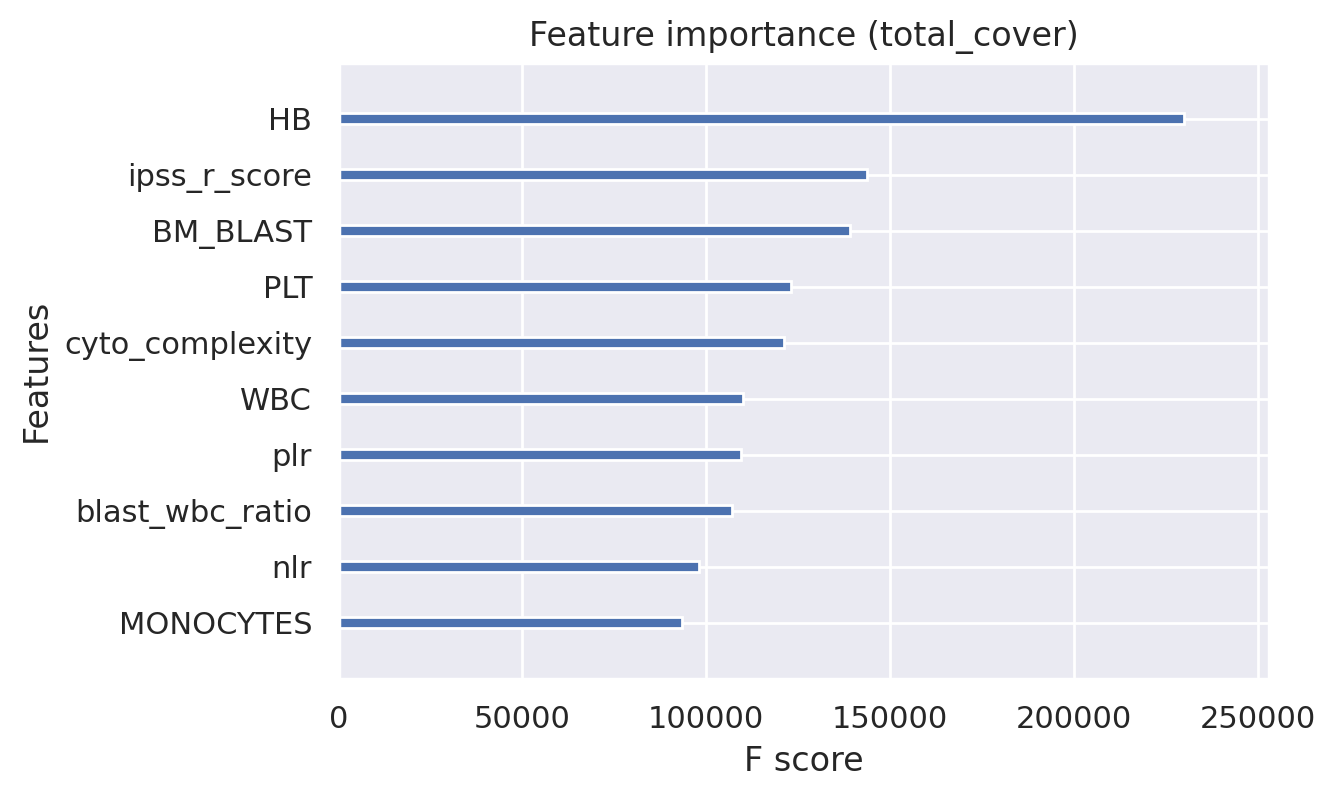
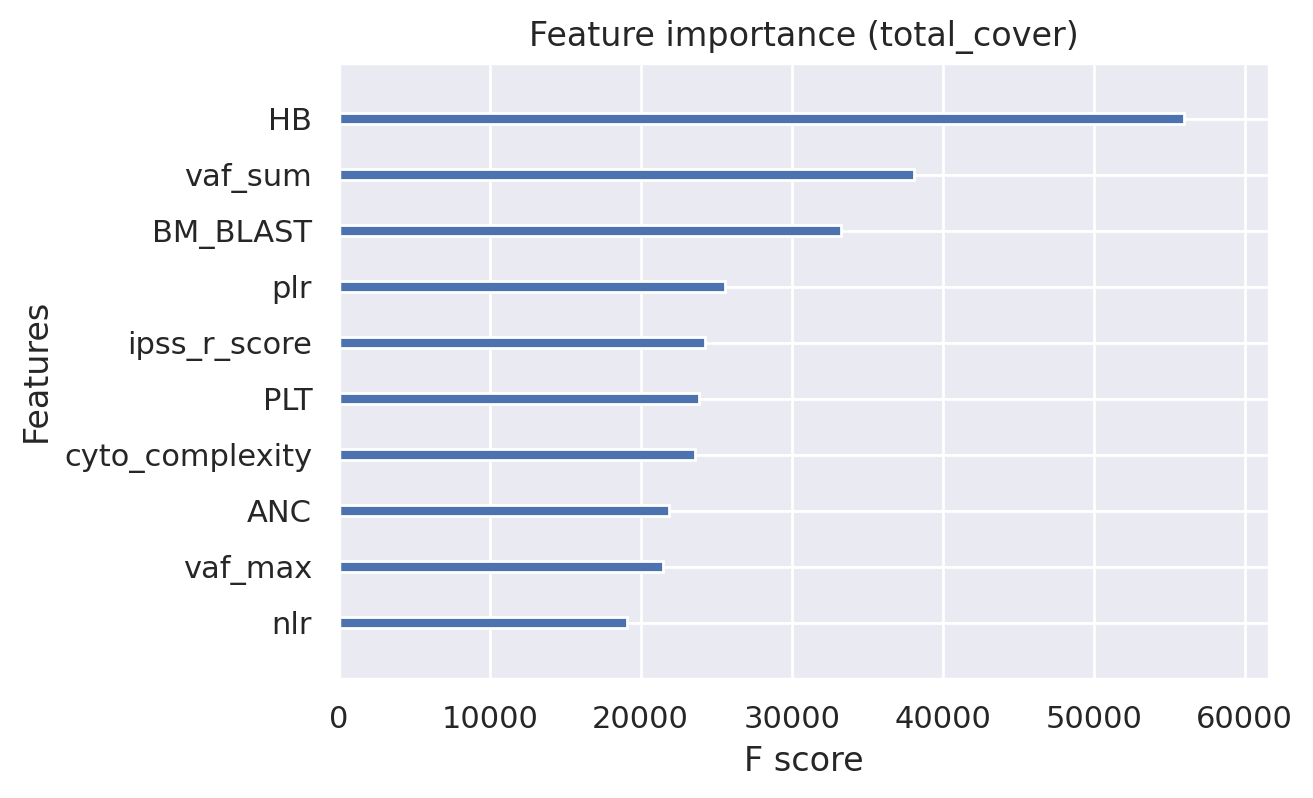
finished .tex

diff --git a/report/report.tex b/report/report.tex
@@ -2,6 +2,7 @@
 \usepackage{graphicx}
 \usepackage{amsmath, amssymb}
 \usepackage{hyperref}
+\usepackage[a4paper, top=20mm, bottom=20mm, left=20mm, right=20mm]{geometry}
 
 \title{Overall Survival Prediction for Patients Diagnosed with Myeloid Leukemia}
 \author{Gaëtan Ecrepont}
@@ -12,29 +13,60 @@
 \maketitle
 
 \begin{abstract}
-Predicting overall survival for patients diagnosed with myeloid leukemia is essential for personalized treatment. This report presents our approach using survival analysis techniques, in particular XGBoost, to model right-censored data effectively. We first introduce the problem and its challenges. When then describe our methodology and present our results. Finally, we discuss our model's limitations and ideas for improvement.
+Predicting overall survival for patients diagnosed with myeloid leukemia is crucial for personalized treatment. This report presents our machine learning approach to predict risk scores for adult patients with myeloid leukemia\footnote{We will mostly focus on Acute Myeloid Leukemia (AML) because it has the richest literature available.}. Our model is trained on a dataset containing clinical and genetic information, and we evaluate its performance using the IPCW-C-index. The results indicate that our model's predicted risk score is informative for flagging high-risk and low-risk patients, but it struggles with intermediate-risk predictions and recall for high-risk patients.
 \end{abstract}
 
-\section{Introduction}
-Survival prediction is crucial in clinical settings to guide treatment decisions. However, the presence of right-censored data and a limited number of samples pose challenges. This study explores various survival analysis models and ultimately selects XGBoost for its performance and explainability.
+\tableofcontents
+\newpage
 
-\section{Problem Statement}
-The dataset consists of clinical and genetic information, with the target variable being overall survival (OS). Key challenges include:
+This paper is a report of our work on the 2025 \textit{Challenge Data} competition "Overall Survival Prediction for Patients Diagnosed with Myeloid Leukemia" proposed by the \textit{QRT} and held in partnership with the \textit{Institut Gustave Roussy}. The goal of this competition was to predict the risk score of adult patients diagnosed with myeloid leukemia using clinical and genetic data.
+
+We first introduce the dataset and the models considered. We then describe our experimental setup and present our results. Finally, we discuss our model's limitations and ideas for improvement.
+
+\section{Dataset}
+The dataset consists of clinical and genetic information, with the target variable being overall survival. The main challenges we faced were:
 \begin{itemize}
-    \item Right-censored data complicates standard regression techniques.
-    \item Feature engineering is difficult due to domain-specific predictors.
-    \item Missing data (7\% in clinical, 9\% in genetic data) requires imputation.
+    \item \textbf{Right-censored data} means we cannot use standard regression techniques. Instead, we must resort to \textit{survival analysis} models.
+    \item \textbf{Highly non-Gaussian data} (e.g., blood counts with large right skew) and complex categorical variables (e.g., cytogenetics) require careful preprocessing.
+    \item \textbf{Lack of expert knowledge} on AML means we cannot easily understand interactions between features or engineer new features. We will need to leverage the existing medical literature to create informative features.
+    \item \textbf{No clear data-generating process}, implying that we must consider the data as a \textit{black box}. Besides, we don't really know how the data was collected and therefore we have no idea of the potential biases created by the data collection process.
+    \item \textbf{Missing data} (7\% in clinical, 9\% in genetic data) requires imputation.
 \end{itemize}
 
-\section{Methodology}
-We evaluated multiple models for survival prediction:
+Note that the number of patients is moderate (around 3000) compared to the number of features (89 after feature engineering). This is a common situation in medical datasets, and it means that robustness will be a significant concern. We will need to be careful with hyperparameter tuning and model selection to avoid overfitting the data. In addition, 3000 samples is \textit{a priori} not enough to train a robust deep learning model, so we won't consider this approach.
+
+\section{Models considered}
+We evaluated multiple models for survival prediction:\footnote{Note that we won't describe the functioning of each model in detail, as it is not the focus of this report. For more information, please refer to the references at the end of this report.}
 \begin{itemize}
     \item \textbf{Penalized Cox Model}: Simple and interpretable but lacks non-linearity.
-    \item \textbf{Random Survival Forest}: Good interpretability but at risk of overfitting. Slow fit.
-    \item \textbf{Kernel Survival SVM}: Performance heavily depends on the kernel choice. We weren't able to come up with a good enough kernel for this approach to be competitive. Besides, it lacks interpretability.
-    \item \textbf{Survival XGBoost}: Gradient-Boosted Trees: high performance and fast training, but risk of overfit.
+    \item \textbf{Random Survival Forest}: Good interpretability but at risk of overfitting. Slow fit means cross-validation and hyperparameter tuning are expensive.
+    \item \textbf{Survival XGBoost}: Gradient-Boosted Trees: high performance and fast training, but high risk of overfit unless carefully cross-validated and tuned.
 \end{itemize}
-XGBoost was selected due to its superior performance and computational efficiency, though we had to tweak the hyperparameters to avoid overfitting.
+
+\begin{table}[h]
+    \centering
+    \begin{tabular}{|l|c|c|c|}
+        \hline
+        & Penalized Cox Model & Random Survival Forest & Survival XGBoost \\
+        \hline
+        Nonlinear & no & yes & yes \\
+        \hline
+        High dimensional & mid & yes & yes \\
+        \hline
+        Little overfit & yes & no & no \\
+        \hline
+        Superior performance & no & yes & yes++ \\
+        \hline
+        Fast fit & no & no & yes \\
+        \hline
+    \end{tabular}
+    \caption{Comparison of survival models}
+    \label{tab:survival_models}
+\end{table}
+
+The penalized Cox model and the Random Survival Forest were implemented using the \texttt{scikit-survival} whereas XGBoost was implemented using the \texttt{xgboost} library.
+
+After some testing, XGBoost was selected due to its superior performance and computational efficiency, though we had to carefully tweak the hyperparameters to avoid overfitting. Note that although ensembling models often leads to a "free lunch" increase in performance, we did not pursue this approach as the risk scores outputted by the different models were not directly comparable. Indeed, the risk scores from different models are relative, not absolute, and thus ensembling them is nontrivial.\footnote{We actually tried creating a metamodel using XGBoost and Random Survival Forest as base models, using a log transform and then a min-max transform to make the risk scores comparable. However, this approach did not yield significant performance improvements, so we dropped it in favor of a simpler model.}
 
 \section{Feature Engineering}
 \subsection{Clinical Features}
@@ -42,22 +74,22 @@ We first extracted information for the \texttt{CYTOGENETICS} column:
 \begin{itemize}
     \item chromosomal anomalies: chromosome loss, gain, deletion, derivative, marker, short arm, long arm, translocation, XX, XY.
     \item missing cytogenetics.
-    \item \texttt{n\_+-}: Total count of chromosome gains and losses.
+    \item \texttt{n\_+-}: total count of chromosome gains and losses.
     \item specific risk factors:  loss of chromosome 7, deletion of chromosome 5q, translocation between chromosomes 9 and 22.
-    \item \texttt{cyto\_complexity}: Measure of karyotype complexity, defined as the count of commas in the cytogenetics.
-    \item \texttt{n\_high \_risk\_markers}: Count of high-risk markers (found in the literature).
+    \item \texttt{cyto\_complexity}: measure of karyotype complexity, defined as the count of commas in the cytogenetics.
+    \item \texttt{n\_high\_risk\_markers}: count of high-risk markers (found in the literature).
 \end{itemize}
 
 We also defined the following ratios:
 \begin{itemize}
-    \item \texttt{nlr}: Neutrophil-to-lymphocyte ratio.
-    \item \texttt{plr}: Platelet-to-lymphocyte ratio.
-    \item \texttt{blast\_wbc\_ratio}: Ratio of blast cells to white blood cells.
+    \item \texttt{nlr}: neutrophil-to-lymphocyte ratio.
+    \item \texttt{plr}: platelet-to-lymphocyte ratio.
+    \item \texttt{blast\_wbc\_ratio}: ratio of blast cells to white blood cells.
 \end{itemize}
 
-Finally we added the \texttt{IPSS\_R\_Score} (Revised International Prognostic Scoring System) as a feature, it is a well-known prognostic factor in myeloid leukemia, defined as the following linear combination:
+Finally we added the \texttt{ipss\_r\_score} (Revised International Prognostic Scoring System) as a feature, it is a well-known prognostic factor in myeloid leukemia, defined as the following linear combination:
 \begin{equation}
-    \texttt{IPSS\_R\_Score} = 0.4 \cdot \texttt{BM\_BLAST} - 0.3 \cdot \texttt{HB} - 0.2 \cdot \texttt{PLT} + 0.5 \cdot \texttt{cyto\_complexity}
+    \texttt{ipss\_r\_score} = 0.4 \cdot \texttt{BM\_BLAST} - 0.3 \cdot \texttt{HB} - 0.2 \cdot \texttt{PLT} + 0.5 \cdot \texttt{cyto\_complexity}
 \end{equation}
 
 \subsection{Genetic Features}
@@ -71,33 +103,35 @@ We first grouped the genetic features by patients and created aggregates and cou
 
 \section{Experimental Setup}
 \subsection{Data Transformation}
-Although tree-based models do not care for data normalization, we still applied a transformation in the hope that it would help XGBoost find its splits. Besides, having Gaussian features was needed to test the penalized Cox model which is a linear model. We only transformed clinical features because they exhibited significant right skewness. We applied the Yeo-Johnson transformation to normalize the data. The Box-Johnson transformation was also considered, but since some variables could equal zero, it was not applicable.
+Although tree-based models do not care for data normalization \textit{in theory}, we still applied a transformation in the hope that it would help XGBoost find its splits. Besides, having Gaussian features was needed to test the penalized Cox model which is a linear model. We only transformed clinical features because they exhibited significant right skewness. We applied the Yeo-Johnson transformation to normalize the data. The Box-Johnson transformation was also considered, but since some variables could equal zero, it was not applicable.
 
 \subsection{Data Imputation}
 Missing values were imputed using two methods:
-- \textbf{Clinical Dataset}: 7\% missing values. All real positive variables (blood counts and bone marrow blast percentage) were imputed using the mode. Missing cytogenetics were imputed with the string "missing" so that the model could know when a patient had no cytogenetics data available.
-- \textbf{Genetic Dataset}: 9\% missing values. Missing values were first ignored when grouping by patients and creating aggregates and counts. Then those newly created variables were imputed using -1. This makes sense as almost all these variables are (nonnegative integer) counts or indicators, i.e. ordinal variables. For example, the number of mutations in a gene is a count variable, and the presence of a mutation is an indicator variable. The categorical -1 value indicates to the model that the patient has no data available for this variable. 
+\begin{itemize}
+    \item \textbf{Clinical Dataset}: 7\% missing values. All real positive variables (blood counts and bone marrow blast percentage) were imputed using the mode. Missing cytogenetics were imputed with the string "missing" so that the model could know when a patient had no cytogenetics data available.
+    \item \textbf{Genetic Dataset}: 9\% missing values. Missing values were first ignored when grouping by patients and creating aggregates and counts. Then those newly created variables were imputed using -1. This makes sense as almost all these variables are (nonnegative integer) counts or indicators, i.e. ordinal variables. For example, the number of mutations in a gene is a count variable, and the presence of a mutation is an indicator variable. The categorical -1 value indicates to the model that the patient has no data available for this variable.
+\end{itemize}
 
 Empirically, other imputation methods (e.g., mean instead of mode, 0 instead of -1) did not yield significant differences in performance. We chose the above two approaches as they seemed most intuitive.
 
 \subsection{Evaluation Metric}
-Performance was assessed using IPCW-C-index, which is like the classic Concordance Index for Right Censored Data (C-index) but using inverse probability weighting to account for the right-censored nature of the data. A score of 0.5 indicates random predictions, while a score of 1.0 indicates perfect predictions (and a score of 0.0 indicates perfectly wrong predictions). Although complicated to compute, The IPCW-C-index is a robust metric for survival analysis.
+Performance was assessed using IPCW-C-index, which is similar to the classic Concordance Index for Right Censored Data (C-index) but using inverse probability weighting to account for the right-censored nature of the data. A score of 0.5 indicates random predictions, while a score of 1.0 indicates perfect predictions (and a score of 0.0 indicates perfectly wrong predictions). Although complicated to compute, The IPCW-C-index is a robust metric for survival analysis.
 
 \subsection{Cross-Validation}
 We used 5-fold cross-validation to evaluate model performance. Note that to avoid data leakage, we performed the imputation the data transformation and imputation during the cross-validation process. We saw no use of Stratified K-Folds as the dataset was already balanced between dead and censored patients. Likewise, each patient had only one row so we did not need Group K-Folds.
 
 \subsection{Hyperparameter Tuning}
-XGBoost tuning is a delicate exercise. The large number of hyperparameters means that we can easily overfit the data, and yet one can obtain significant performance improvements by tuning them carefully. Since a full grid search would be too expensive and might lead to overfitting, we used a Bayesian optimization approach to find the best hyperparameters. We used the \texttt{optuna} library, which is a powerful and efficient hyperparameter optimization framework. The search space included:
+XGBoost tuning is a delicate exercise. The large number of hyperparameters means that we can easily overfit the data, and yet one can obtain significant performance improvements by tuning them carefully. Since a full grid search would be too expensive and might lead to overfitting, we used a \textbf{Bayesian optimization approach} to find the best hyperparameters. We used the \texttt{optuna} library, which is a powerful and efficient hyperparameter optimization framework. The search space included:
 \begin{itemize}
-    \item \texttt{n\_estimators} $in [100, 500]$: Number of trees to be built.
-    \item \texttt{learning\_rate} $in [0.001, 0.1]$: Step size shrinkage used in update to prevent overfitting.
-    \item \texttt{max\_depth} $in [2, 6]$: Maximum depth of a tree.
-    \item \texttt{subsample} $in [0.4, 0.8]$: Fraction of samples to be used for each tree.
-    \item \texttt{colsample\_bytree} $in [0.4, 1.0]$: Fraction of features to be used for each tree.
-    \item \texttt{colsample\_bylevel} $in [0.4, 1.0]$: Fraction of features to be used for each level.
-    \item \texttt{colsample\_bynode} $in [0.4, 1.0]$: Fraction of features to be used for each node.
-    \item \texttt{min_child\_weight} $in [1, 10]$: Minimum sum of instance weight (hessian) needed in a child.
-    \item \texttt{gamma} $in [0, 5]$: Minimum loss reduction required to make a further partition on a leaf node.
+    \item \texttt{n\_estimators} $\in [100, 500]$: Number of trees to be built.
+    \item \texttt{learning\_rate} $\in [0.001, 0.1]$: Step size shrinkage used in update to prevent overfitting.
+    \item \texttt{max\_depth} $\in [2, 6]$: Maximum depth of a tree.
+    \item \texttt{subsample} $\in [0.4, 0.8]$: Fraction of samples to be used for each tree.
+    \item \texttt{colsample\_bytree} $\in [0.4, 1.0]$: Fraction of features to be used for each tree.
+    \item \texttt{colsample\_bylevel} $\in [0.4, 1.0]$: Fraction of features to be used for each level.
+    \item \texttt{colsample\_bynode} $\in [0.4, 1.0]$: Fraction of features to be used for each node.
+    \item \texttt{min\_child\_weight} $\in [1, 10]$: Minimum sum of instance weight (hessian) needed in a child.
+    \item \texttt{gamma} $\in [0, 5]$: Minimum loss reduction required to make a further partition on a leaf node.
 \end{itemize}
 Note that except for \texttt{n\_estimators}, all the other hyperparameters were added to combat overfit. Also, to have an idea of the degree of overfit for each hyperparameter configuration, we recorded the performance of the model on the training set while our search was optimizing performance on the test set.
 
@@ -113,15 +147,16 @@ Note that except for \texttt{n\_estimators}, all the other hyperparameters were 
     \item \texttt{gamma}: 1.392
 \end{itemize}
 
-Note in particular the high \texttt{n\_estimators} to improve performance combined a small \texttt{max_depth} to limit overfitting.
-
+Note in particular the high \texttt{n\_estimators} to improve performance combined a small \texttt{max\_depth} to limit overfitting. We used 369 estimators in the end, but in practice we ventured into the 500-1000 range during the cross-validation phase and obtained similar performance. We decided to keep the 369 estimators to decrease the risk of overfitting.
 
 \section{Results}
 \subsection{C-IPCW scores}
 Our XGBoost model had the following C-IPCW scores:
-- \textbf{Local cross-validation score}: 0.726 test & 0.763 train, indicating a medium generalization gap.
-- \textbf{Public leaderboard score}: 0.727, placing us 23rd.
-- \textbf{Private leaderboard score}: 
+\begin{itemize}
+    \item \textbf{Local cross-validation score}: 0.726 test \& 0.763 train, indicating a moederate amount of overfitting.
+    \item  \textbf{Public leaderboard score}: 0.7268, placing us 23rd. The closeness between our local score and the public leaderboard score seems to confirm that we didn't overfit the training data. In fact, the public leaderboard score is even slightly better than our local score, which is probably due to luck.
+    \item \textbf{Private leaderboard score}: 0.7076, placing us 13rd. Note that the 0.0192 drop between the public and private leaderboard scores is the second lowest and much lower than the competition average drop of 0.0476. This is probably due to the fact that we only did a single submission to the public leaderboard, meaning that we couldn't overfit to it, unlike participants who presumably picked among all their submissions the one having the highest public score, thereby overfitting the public dataset \textit{by definition}.
+\end{itemize}
 
 \subsection{Feature Importance}
 For more robustness, we used four different feature importance methods:
@@ -131,16 +166,17 @@ For more robustness, we used four different feature importance methods:
     \item \textbf{Total cover}: Total number of samples impacted by a feature across all splits.
     \item \textbf{Permutation importance}: Model-agnostic method that measures the increase in prediction error when a feature is randomly shuffled. This method is more robust to overfitting and provides a better estimate of feature importance, but it is also more computationally expensive.
 \end{itemize}
-Feature importance analysis showed that hemoglobin level (HB) was by far the most critical predictor, followed by (in no particular order of importance) BM\_BLAST, IPPS\_R\_Score, Cyto\_Complexity, and PLT. These are all clinical features and it makes sense that they matter more than genetic features since those are much less specific and thus their overall importance is lower (although for a given patient, they can be very important). The model also performed well on the training set, with a C-index of 76.2\%, so the generalization error is not too high.
 
-For each method, we plotted the top 10 feature importance scores in Figure \ref{fig:feature_importance}. The first three plots show the built-in feature importance scores for the XGBoost model using different methods (weight, gain, and cover). The last plot shows the permutation importance scores, which provide a more robust estimate of feature importance. Note that in all plots, the most importance featue is HB, followed by BM\_BLAST, IPPS\_R\_Score, Cyto\_Complexity, and PLT in a more or less random order.
+For each feature importance method, we plotted the top 10 feature importance scores in Figure \ref{fig:feature_importance}. The first three plots show the built-in feature importance scores for the XGBoost model using different criteria (weight, gain, and cover). The last plot shows the permutation importance scores, which provide a more robust estimate of feature importance. Note that in all plots, the most importance feature is \texttt{HB}. Then, in changing orders depending on the method, we have the base blood counts (\texttt{PLT}, \textttt{ANC}, \texttt{WBC}, \texttt{MONOCYTES}) and their interactions (\texttt{plr}, \texttt{nlr}, \texttt{ipss\_r\_score}) alongside \texttt{cyto\_complexity}. The only genetic features in the top 10 are \texttt{vaf\_sum} and \texttt{vaf\_max}.
 
-\begin{figure}[h]
+The other features have much lower importance scores, indicating that they are not as informative for the model, though they presumably do help the model gain a little bit of extra performance. In particular, it is remarkable that genetic features seem not be very informative for the risk score. We must be careful with this quick conclusion though, as it may be because genetic features are mostly highly specific indicator variables (e.g. you have gene X or not) and as such they aren't used a lot to discriminate patients \textit{overall}, but they can still be very informative \textit{for a given patient}.
+
+\begin{figure}[htbp!]
     \centering
     \includegraphics[width=0.6\textwidth]{img/feature_importance_xgb_weight.png}
     \includegraphics[width=0.6\textwidth]{img/feature_importance_xgb_total_gain.png}
     \includegraphics[width=0.6\textwidth]{img/feature_importance_xgb_total_cover.png}
-    \includegraphics[width=0.6\textwidth]{img/permutation_importance_xgb.png}
+    \includegraphics[width=0.6\textwidth]{img/feature_importance_xgb_permutation.png}
     \caption{Feature importance scores for XGBoost model.}
     \label{fig:feature_importance}
 \end{figure}
@@ -148,48 +184,58 @@ For each method, we plotted the top 10 feature importance scores in Figure \ref{
 
 \subsection{Analysis of model performance}
 
-The analysis of our model performance is not straightforward because the IPCW-C-index is complex. Since we are trying to predict the (relative) risk score of patients, one natural way to analyze the performance of our model is to look at how informative the risk score is. We can view this question using notions from classification, as if we were trying to predict whether the patient will die within the next 7 years\footnote{We censored observations at 7 years to compute C-IPCW.} or not.
+The analysis of our model performance is not straightforward because the IPCW-C-index is complex. Since we are trying to predict the (relative) risk score of patients, one natural way to analyze the performance of our model is to look at how informative the risk score is. We can view this question using notions from classification, as if we were trying to predict whether the patient will die within the next 7 years\footnote{We censored observations at 7 years to compute C-IPCW.} or not. We can thus define the following notions:
 \begin{itemize}
     \item \textbf{Precision}: When our model flags a patient as high-risk (resp. low-risk) does the patient indeed die within 7 years (resp. not die within 7 years)?
     \item \textbf{Recall}: When a patient dies (resp. doesn't die) within 7 years, does our model flag them as high-risk (resp. low-risk)?
-    \item What happens in between?
+    \item What happens for mid-risk patients?
 \end{itemize}
 
-To answer these questions, we can look at the scatter plot of the risk score against the actual survival time and survival class. The results are shown in Figure \ref{fig:precision_recall}. We find that the model has good precision for low-risk patients (blue oval) and high precision for high-risk patients (yellow oval). However, the model has medium recall for high-risk patients (purple oval). Finally, the model is globally quite uncertain for mid-risk patients (green oval). This is not surprising as the model is trying to predict a continuous variable (the risk score) and the outcome is binary (death of not).
+To answer these questions, we can look at the scatter plot of the risk score against the actual survival time and survival class. The results are shown in Figure \ref{fig:precision_recall}. We find that the model has \textit{good precision for low-risk patients} (blue oval) and \textit{high precision for high-risk patients} (yellow oval). However, the model has \textit{medium recall for high-risk patients} (purple oval). Finally, the model is globally \textit{uncertain for mid-risk patients} (green oval). This is not surprising as the model is trying to predict a continuous variable (the risk score) and the outcome is binary (death of not).
 
 To summarize our analysis: our model is good at flagging low-risk patients and high-risk patients, but it is moderately good at catching high-risk patients. Besides, our model globally behaves poorly outside the extremes: that is, our risk score is not very informative for mid-risk patients.
 
-\begin{figure}[h]
+\begin{figure}[htbp!]
     \centering
     \includegraphics[width=0.8\textwidth]{img/risk_score_vs_OS_YEARS_annotated.png}
     \caption{Scatter plot of risk score against actual survival time, colored by survival class.}
     \label{fig:precision_recall}
 \end{figure}
 
-
-\section{Discussion}
-While XGBoost performed well at identifying high- and low-risk patients, intermediate-risk predictions remained uncertain. Possible improvements include additional features, ensembling, and further hyperparameter tuning.
-
 \section{Conclusion and Future Work}
-This study demonstrated the potential of XGBoost for survival prediction in myeloid leukemia patients. Future work should focus on leveraging medical literature for feature engineering, ensembling different models, and refining hyperparameters.
+While XGBoost performs well at flagging high and low-risk patients, intermediate-risk predictions remain uncertain, and recall is medium on high-risk patients. This suggests that the model is not very informative for mid-risk patients, which is a significant limitation.
 
-\section{References}
+Several approaches can be explored to improve our model's performance:
+\begin{itemize}
+    \item \textbf{Feature Engineering}: We could leverage medical literature on AML to create more informative features, especially for genetic data and cytogenetics. For example, we could create very specific features based on the presence of specific mutations or chromosomal abnormalities that are known to be associated with poor prognosis.
+    \item \textbf{Ensembling}: Combining different models would almost certainly improve performance and robustness, but it is nontrivial since we first need to somehow make the risk scores comparable. We could also simply use a stacking metamodel to combine the predictions of different models without needing to make the risk scores comparable, but then the risk of overfit is very high, so we would probably need to use a very simple model as a metamodel, or gather more data...
+    \item \textbf{Hyperparameter Tuning}: Further tuning of hyperparameters could yield better performance, especially for the XGBoost model. However we run the risk of overfitting the data, so we should be careful and use a validation set to evaluate the performance of the model.
+    \item \textbf{Model Selection}: Exploring other models could lead to better performance, for instance deep learning models, which are known to perform well on high-dimensional data. However, they are also more prone to overfitting and require more data to train properly.
+    \item \textbf{More Data}: Gathering more data could help improve the model's performance. This could be done by collaborating with other hospitals or institutions to gather more data on AML patients.
+\end{itemize}
+ 
+
 \begin{thebibliography}{9}
+
+    \bibitem{AML Risk Factors}
+    Pourrajab F, Zare-Khormizi MR, Hashemi AS, Hekmatimoghaddam S. Genetic Characterization and Risk Stratification of Acute Myeloid Leukemia. Cancer Manag Res. 2020 Mar 25;12:2231-2253. doi: 10.2147/CMAR.S242479. PMID: 32273762; PMCID: PMC7104087.
+    \url{https://pubmed.ncbi.nlm.nih.gov/32273762/}
+
+    \bibitem{IPSS-R}  
+    Revised international prognostic scoring system for myelodysplastic syndromes. Blood. 2012 Sep 20;120(12):2454-65. doi: 10.1182/blood-2012-03-420489. Epub 2012 Jun 27. PMID: 22740453; PMCID: PMC4425443.
+    \url{https://pubmed.ncbi.nlm.nih.gov/22740453/}
+
     \bibitem{scikit-survival}
     Scikit-survival: A library for survival analysis in Python.
     \url{https://scikit-survival.readthedocs.io/en/stable/}
     
-    \bibitem{optuna}
-    Optuna: A hyperparameter optimization framework.
-    \url{https://optuna.org/}
-
     \bibitem{XGBoost}
     XGBoost: A scalable tree boosting system.
     \url{https://xgboost.readthedocs.io/en/latest/}
 
-    \bibitem{IPSS-R}  
-    Revised international prognostic scoring system for myelodysplastic syndromes. *Blood*. 2012 Sep 20;120(12):2454-65. doi: 10.1182/blood-2012-03-420489. Epub 2012 Jun 27. PMID: 22740453; PMCID: PMC4425443.
-    \url{https://pubmed.ncbi.nlm.nih.gov/22740453/}
+    \bibitem{optuna}
+    Optuna: A Bayesian hyperparameter optimization framework.
+    \url{https://optuna.org/}
 \end{thebibliography}
 
 \end{document}

diff --git a/examine.py b/examine.py
@@ -137,11 +137,8 @@ def plot_PI_xgb(model, X: pd.DataFrame, y: np.ndarray, y_xgb: np.ndarray, n_repe
     # plot the importances
     fig, ax = plt.subplots(figsize=(6,4), dpi=200)
     results_df['importances_mean'].plot.barh(yerr=results_df['importances_std'], ax=ax)
-    model_name = model.__class__.__name__
-    ax.set_title(f"Permutation Importances ({model_name})")
+    ax.set_title("Feature Importance (permutation)")
     ax.set_xlabel("Mean Importance")
-    ax.set_ylabel("Feature")
-    time = datetime.datetime.now()
-    fname = f"{model_name}_{time.strftime('%m-%d_%H:%M')}"
-    plt.savefig(f"img/permutation_importance_xgb_{fname}.png", dpi=200, bbox_inches='tight')
-    plt.close()
+    ax.set_ylabel("Features")
+    plt.savefig(f"img/feature_importance_xgb_permutation.png", dpi=200, bbox_inches='tight')
+    plt.show()

diff --git a/optuna_xgb.py b/optuna_xgb.py
@@ -1,13 +1,9 @@
-# OPTUNA
+"""
+Script to perform hyperparameter optimization for XGBoost using Optuna.
+"""
+
 import optuna
 import xgboost as xgb
-import pandas as pd
-import numpy as np
-from sksurv.metrics import concordance_index_ipcw
-from sklearn.impute import SimpleImputer
-from sklearn.preprocessing import PowerTransformer
-from sklearn.model_selection import KFold
-from sksurv.util import Surv
 import datetime
 import argparse
 

diff --git a/optuna_rsf.py b/optuna_rsf.py
@@ -1,6 +1,8 @@
-# OPTUNA
+"""
+Script to optimize hyperparameters of Random Survival Forest using Optuna.
+"""
+
 import optuna
-import xgboost as xgb
 from sksurv.ensemble import RandomSurvivalForest
 import datetime
 import argparse
